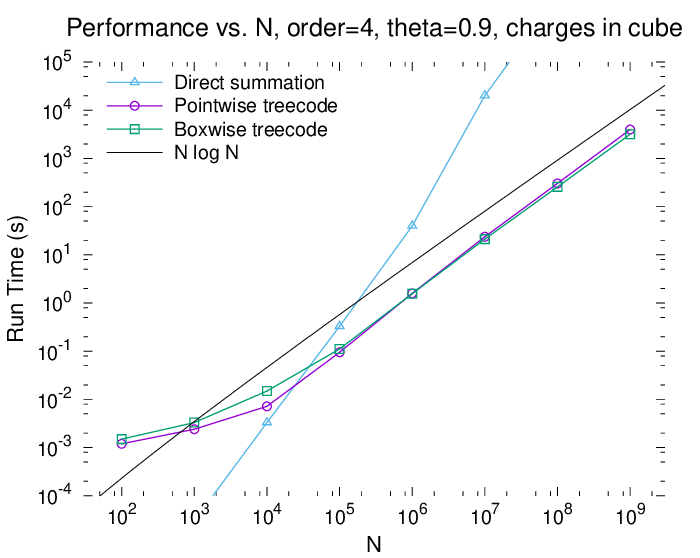
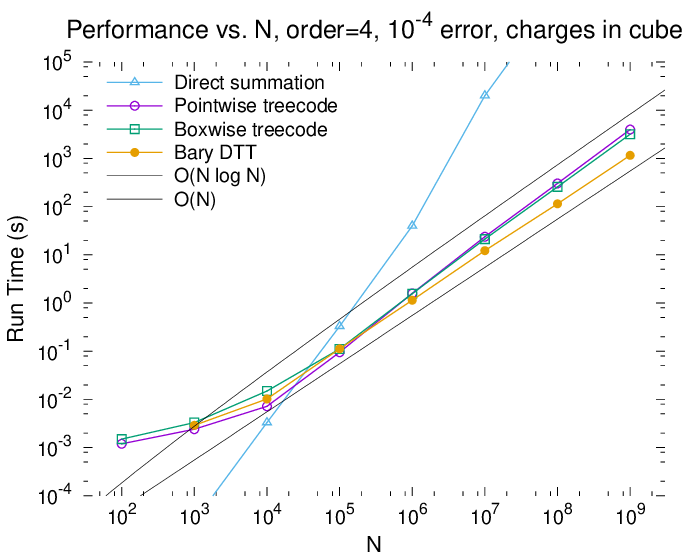
Updated table and plots with O(N) dual-tree-traversal results

diff --git a/README.md b/README.md
@@ -71,20 +71,23 @@ The tests below were run on an AMD Threadripper 3945WX 12-core processor using t
 version of this code compiled with GCC 14.3.1 with Vc and OpenMP and use a block size of 128 (`-b=128`).
 All reported times are in wall-clock seconds reported with the high resolution timer from `std::chrono`.
 Below is the performance of the `ongrav3d` program, coded to use charges instead of
-masses (it is much harder to get high accuracy with + and - charges than with
+masses (it is harder to get high accuracy with + and - charges than with
 always-positive masses), with `-t=1.11111` (MAC theta=0.9), 4th order interpolation
 (`-o=4` or 5^3 Chebyshev points per tree node) and single-precision numbers for
 storage and computation. RMS errors were around 1e-4.
+The "dual-tree" or "DTT" is the "dual tree traversal" code, a nominally O(N) method
+that uses a target tree to interpolate far-field velocities to local target boxes.
+That method requires `-t=1.4` (MAC theta 0.714) to achieve 1e-4 RMS error.
 
-N      | src tree | calc equivs |  direct  | pointwise | boxwise
--------|----------|-------------|----------|-----------|--------
-1000   |  0.0017  |    0.0004   |  0.00003 |   0.0024  | 0.0033
-10000  |  0.0023  |    0.0013   |  0.0033  |   0.0072  | 0.0149
-100000 |  0.0088  |    0.0072   |  0.3289  |   0.0947  | 0.1111
-1e+6   |  0.0879  |    0.0585   |  39.704  |   1.5827  | 1.5646
-1e+7   |  0.9067  |    0.4713   |  20020.  |   23.652  | 21.128
-1e+8   |  8.2903  |    4.6498   |  2.39e+6 |   303.74  | 256.06
-1e+9   |  85.149  |    46.754   |  2.11e+8 |   3979.8  | 3174.4
+N      | src tree | calc equivs |  direct  | pointwise | boxwise | dualtree
+-------|----------|-------------|----------|-----------|---------|----------
+1000   |  0.0017  |    0.0004   |  0.00003 |   0.0024  | 0.0033  | 0.0029
+10000  |  0.0023  |    0.0013   |  0.0033  |   0.0072  | 0.0149  | 0.0102
+100000 |  0.0088  |    0.0072   |  0.3289  |   0.0947  | 0.1111  | 0.1119
+1e+6   |  0.0879  |    0.0585   |  39.704  |   1.5827  | 1.5646  | 1.1449
+1e+7   |  0.9067  |    0.4713   |  20020.  |   23.652  | 21.128  | 12.1990
+1e+8   |  8.2903  |    4.6498   |  2.39e+6 |   303.74  | 256.06  | 114.011
+1e+9   |  85.149  |    46.754   |  2.11e+8 |   3979.8  | 3174.4  | 1160.13
 
 ![Performance vs. N, theta=0.9](doc/resNqd_t0p9_rip.png)
 
